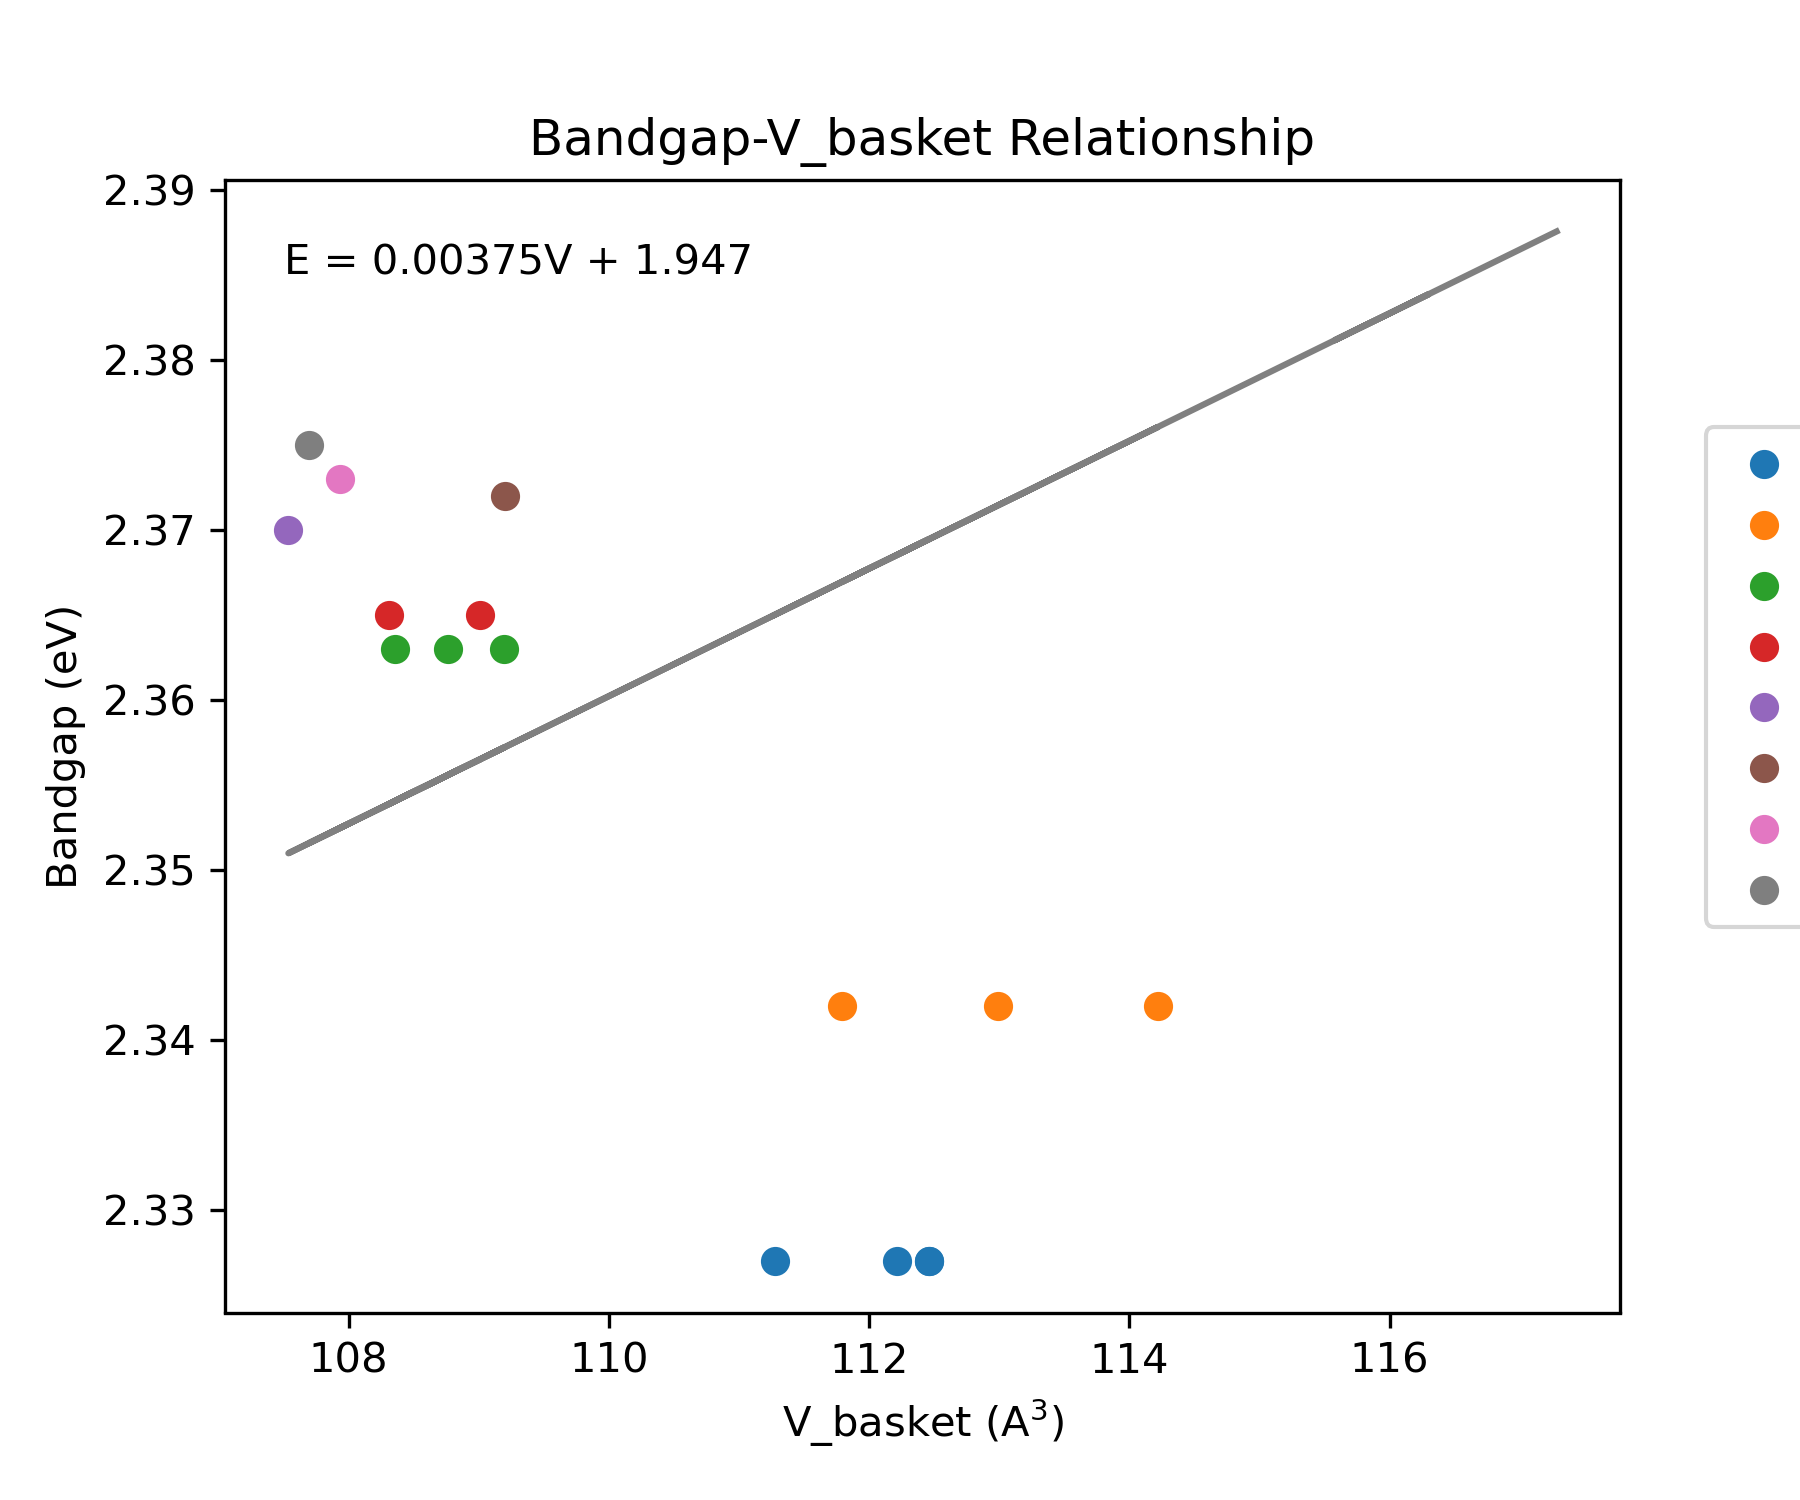
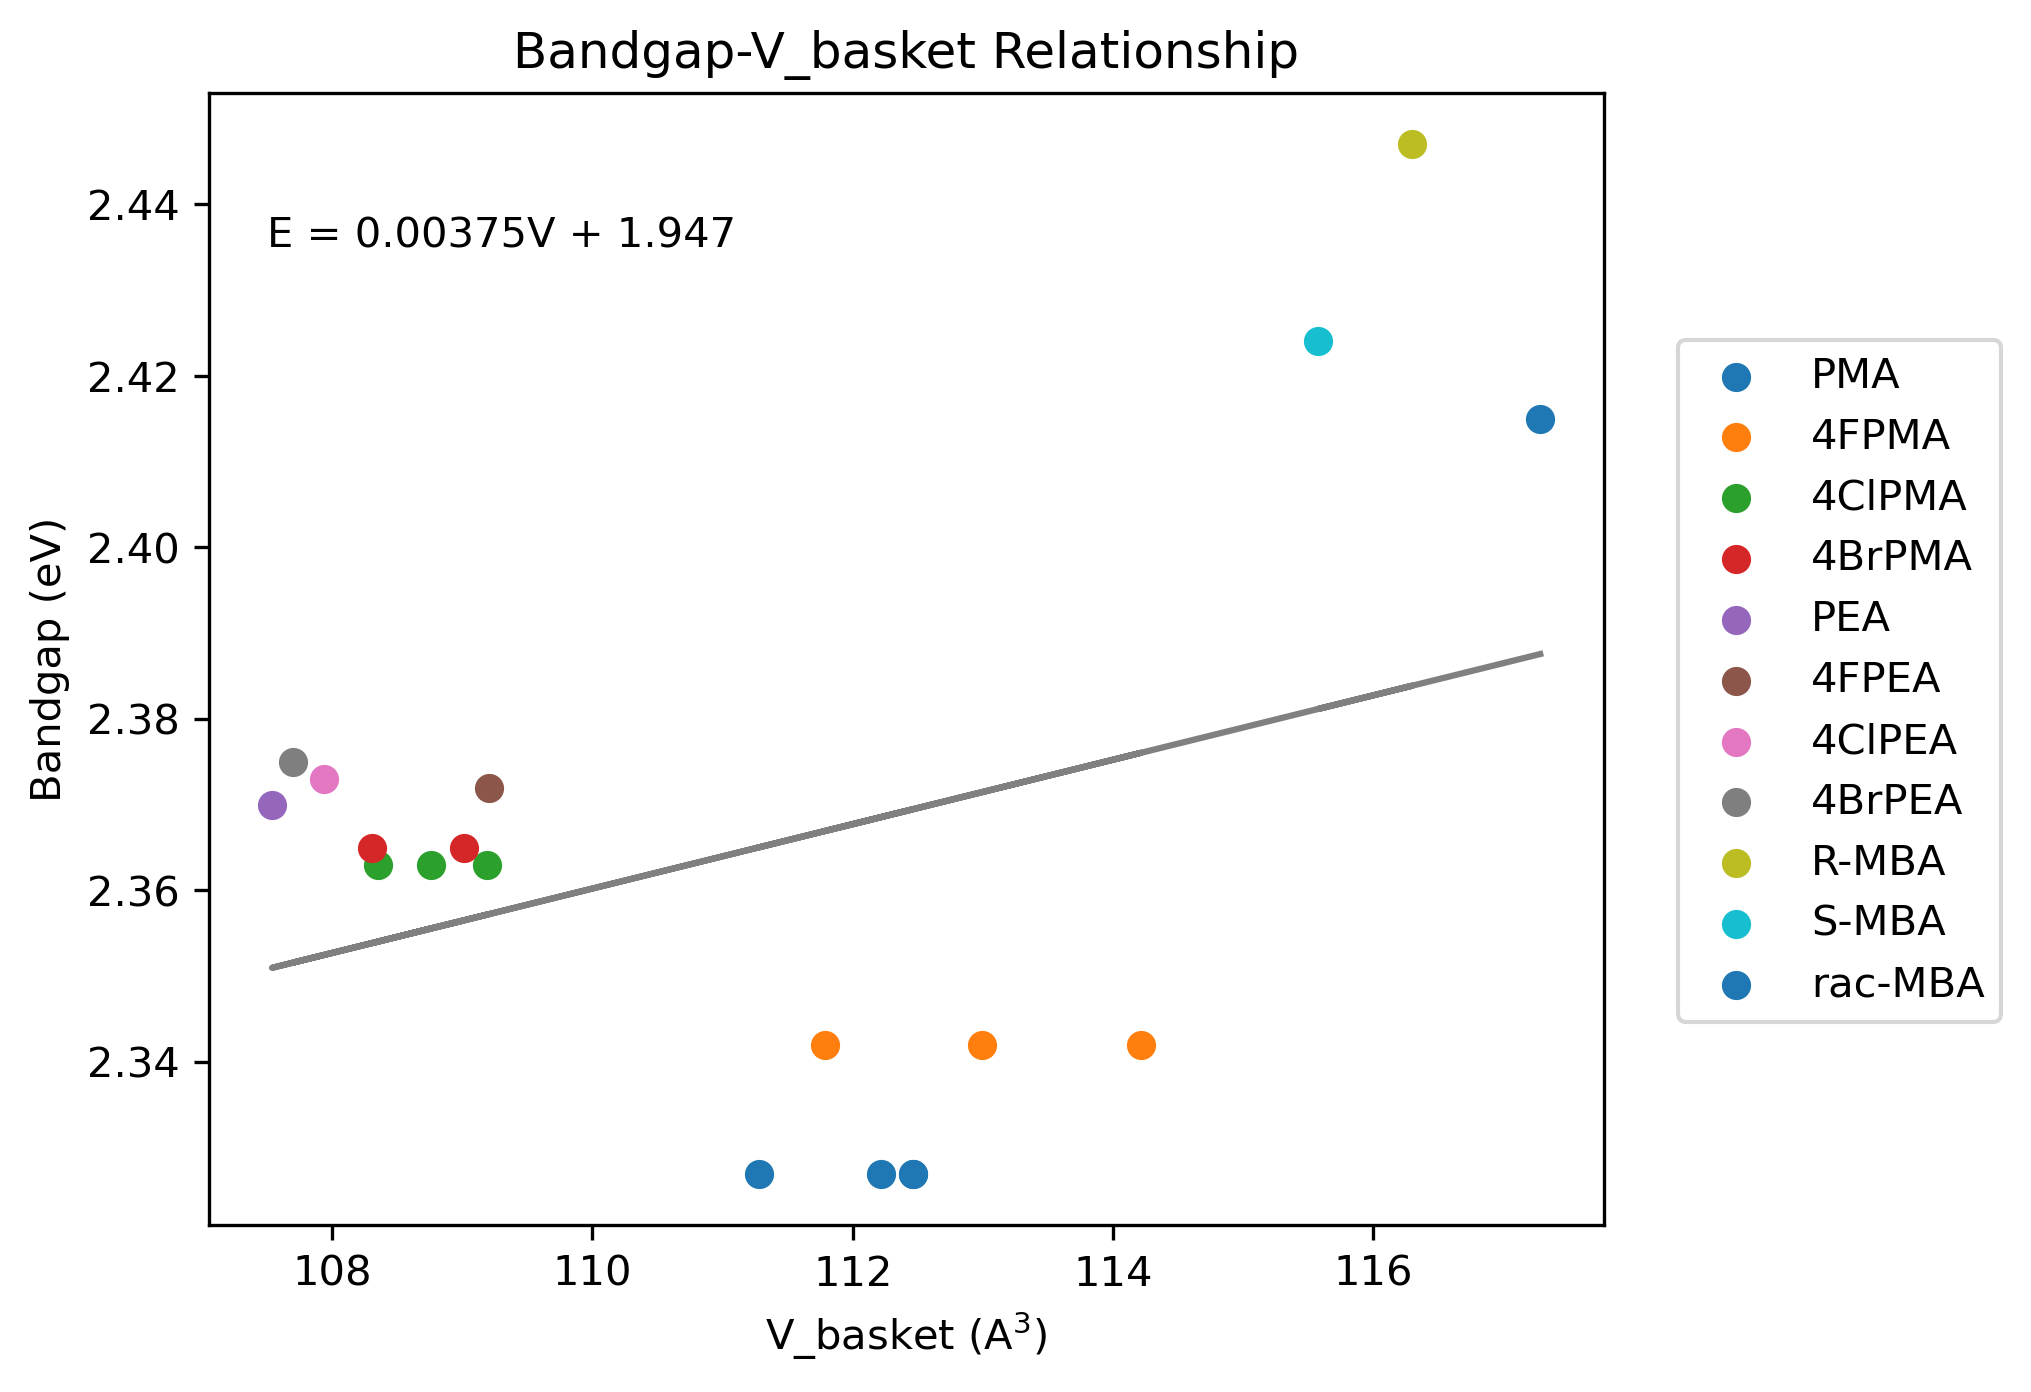
minor change

diff --git a/OctaAnalyzer/main/bandgap_vbas_relation.py b/OctaAnalyzer/main/bandgap_vbas_relation.py
@@ -26,6 +26,7 @@ from sklearn import linear_model, metrics
 df = pd.read_csv('../data/bandgap/bandgap_all.csv')
 
 sample_lib = ['PMA', '4FPMA', '4ClPMA', '4BrPMA', 'PEA', '4FPEA', '4ClPEA', '4BrPEA', 'R-MBA', 'S-MBA', 'rac-MBA']
+# sample_lib = ['PMA', '4FPMA', '4ClPMA', '4BrPMA', 'PEA', '4FPEA', '4ClPEA', '4BrPEA']
 
 
 fig = plt.figure(figsize=(6,5), dpi=300)
@@ -34,7 +35,7 @@ for sample_name in sample_lib:
     bg = df[df['name'] == sample_name].bg.values
     vbas = df[df['name'] == sample_name].vbas.values
     plt.scatter(vbas, bg, label=sample_name)
-    print(f'{sample_name} done')
+    # print(f'{sample_name} done')
 
 bg_all = df.bg.values.reshape(-1,1)
 vbas_all = df.vbas.values.reshape(-1,1)
@@ -50,7 +51,6 @@ rmse = metrics.mean_squared_error(bg_pred, bg_all, squared=True)
 
 print(slope, intercept)
 
-
 plt.plot(vbas_all, bg_pred, color='gray')
 plt.text(107.5,2.435, 'E = %.5fV + %.3f' % (slope, intercept))
 
@@ -58,7 +58,8 @@ plt.title('Bandgap-V_basket Relationship')
 plt.xlabel(r'V_basket (A${^3}$)')
 plt.ylabel('Bandgap (eV)')
 plt.legend(bbox_to_anchor=(1.3,0.8))
-plt.savefig('../graph/bg-vbas_relation.png')
+plt.savefig('../graph/bg-vbas_relation.png', bbox_inches='tight')
+# plt.savefig('../graph/bg-vbas_relation.png')
 plt.show()
 
 
